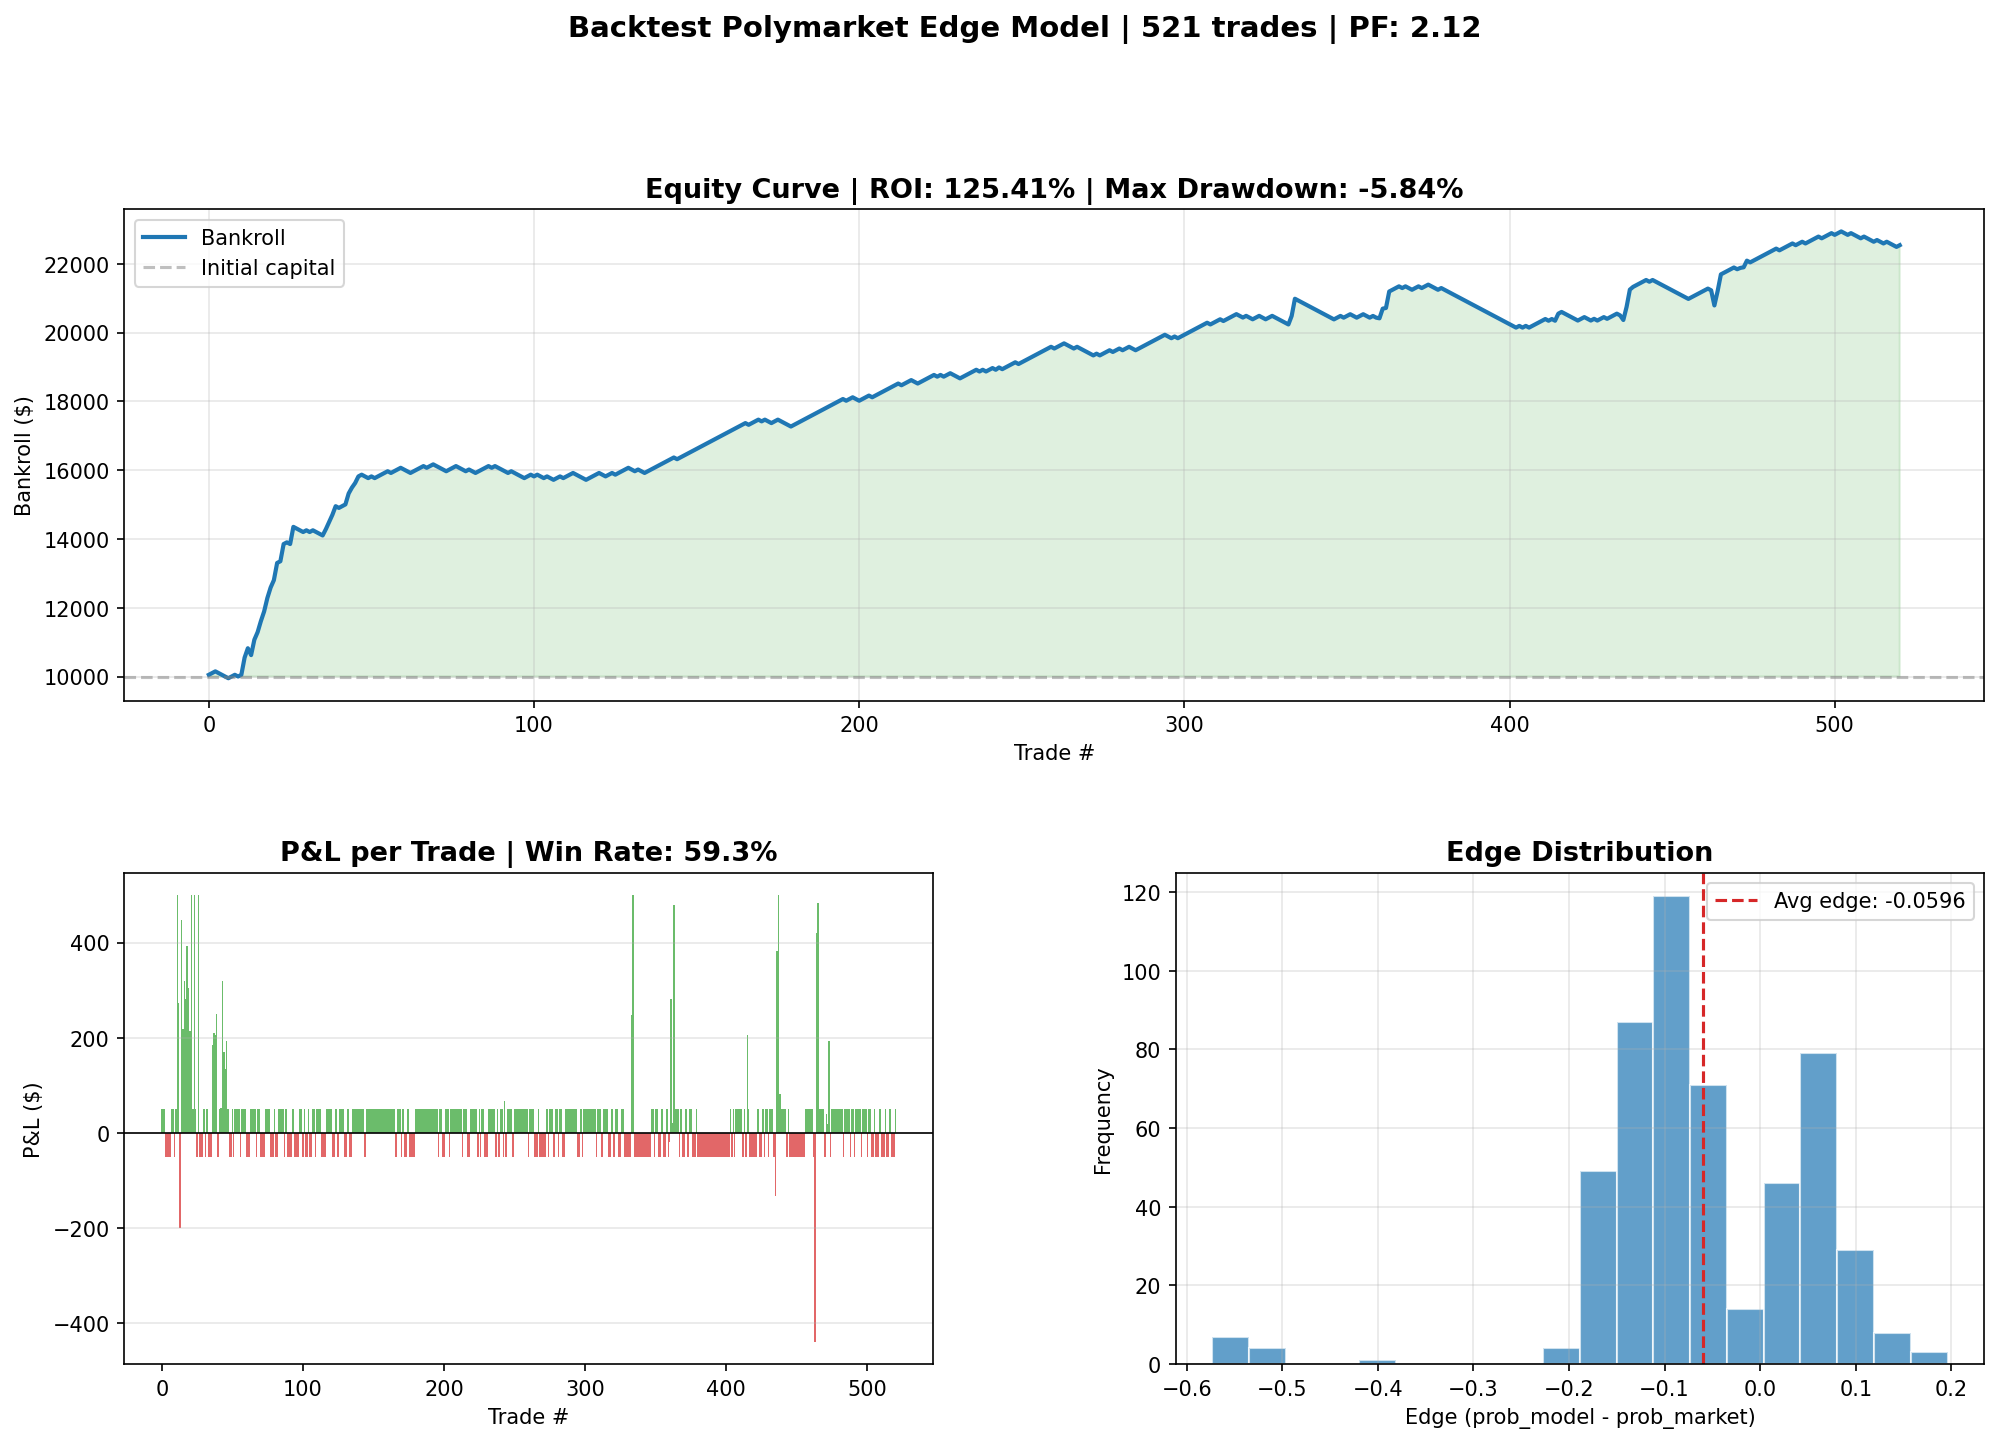
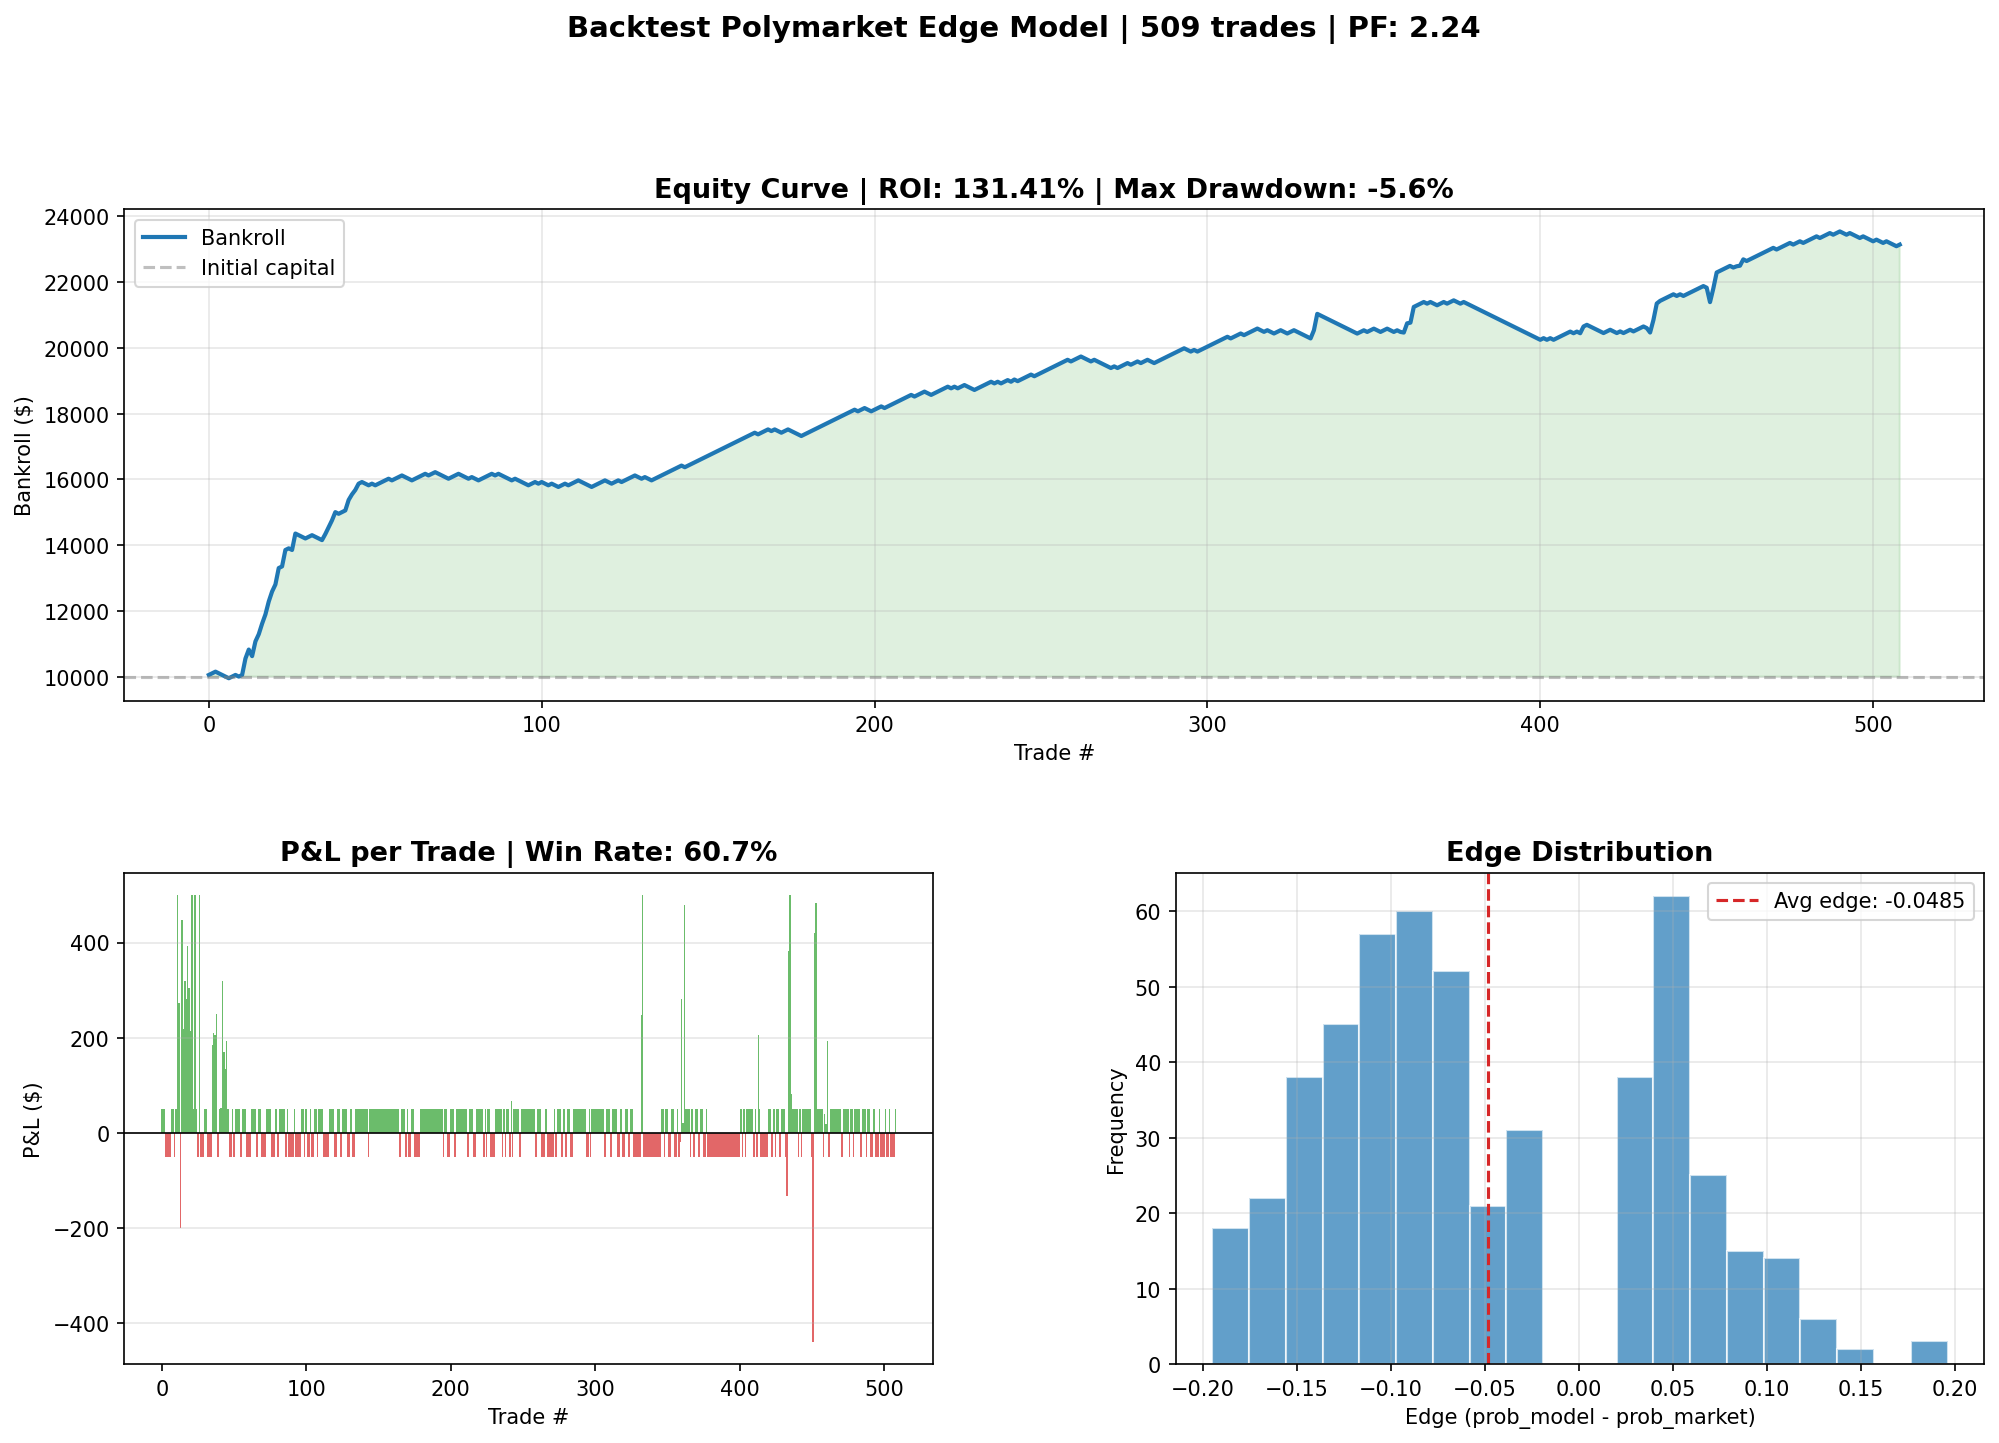
backtest: re-run with fixed kelly and live-engine guards (509 trades, +131.4% ROI)
- simulate_trades applies the same anti-artifact guards as signal_engine
- fetch_resolved_markets retries transient network errors (a connection
  reset used to silently truncate the training dataset)
- print_metrics uses ASCII separators (box-drawing chars crash cp1252 consoles)
- README backtest table refreshed: 509 trades, 60.7% win rate, +131.4% ROI

diff --git a/backtester.py b/backtester.py
@@ -57,6 +57,7 @@ def simulate_trades(
         df_test: pd.DataFrame,
         feature_cols: list[str],
         min_edge: float = 0.02, # Minimum edge to trigger a trade
+        max_edge: float = 0.30, # Edges above this are model errors, not mispricings
         max_kelly: float = 0.10, # Cap to avoid oversized positions
         max_position: float = 500.0,
         bankroll: float = 10_000.0, # Starting capital in $
@@ -103,6 +104,15 @@ def simulate_trades(
             continue
 
         direction = "BUY YES" if edge > 0 else "BUY NO"
+
+        # Same anti-artifact guards as signal_engine.generate_signals, so the
+        # backtest simulates exactly what the live engine would trade
+        if direction == "BUY YES" and prob_market < 0.15:
+            continue
+        if direction == "BUY NO" and prob_market > 0.85:
+            continue
+        if abs(edge) > max_edge:
+            continue
 
         # Position sizing
         
@@ -266,11 +276,11 @@ def print_metrics(metrics: dict) -> None:
     print(f"Total trades: {metrics["total_trades"]}")
     print(f"Wins: {metrics["wins"]} ({metrics["win_rate"]}%)")
     print(f"Losses: {metrics["losses"]}")
-    print(f"{chr(9472)*46}")
+    print("-" * 46) # Plain ASCII: box-drawing chars crash on Windows cp1252 consoles
     print(f"Total P&L: ${metrics["total_pnl"]:+.2f}")
     print(f"ROI: {metrics["roi_pct"]:+.2f}%")
     print(f"Final bankroll: ${metrics["final_bankroll"]:.2f}")
-    print(f"{chr(9472)*46}")
+    print("-" * 46) # Plain ASCII: box-drawing chars crash on Windows cp1252 consoles
     print(f"Max Drawdown: {metrics["max_drawdown_pct"]:.2f}%")
     print(f"Profit Factor: {metrics["profit_factor"]}")
     print(f"Avg position: ${metrics["avg_position"]:.2f}")
@@ -283,6 +293,7 @@ if __name__ == "__main__":
 
     INITIAL_BANKROLL = 10_000.0
     MIN_EDGE = 0.02 # Minimum edge to trade (2%)
+    MAX_EDGE = 0.30 # Skip edges above this (model error, not mispricing)
     USE_KELLY = True # True = Half-Kelly, False = fixed 2% fraction
     MAX_KELLY = 0.10 # Max 10% of bankroll per trade
     MAX_POSITION = 500.0 # Max $500 per trade (realistic Polymarket liquidity)
@@ -334,6 +345,7 @@ if __name__ == "__main__":
         df_test=df_test,
         feature_cols=feature_cols,
         min_edge=MIN_EDGE,
+        max_edge=MAX_EDGE,
         max_kelly=MAX_KELLY,
         max_position=MAX_POSITION,
         bankroll=INITIAL_BANKROLL

diff --git a/calibration.py b/calibration.py
@@ -38,12 +38,20 @@ def fetch_resolved_markets(max_markets: int = 3000) -> pd.DataFrame:
             "end_date_min": "2024-01-01", # Older markets lack reliable price data
         }
 
-        try:
-            resp = requests.get(f"{GAMMA_URL}/markets", params=params, timeout=10)
-            resp.raise_for_status()
-            batch_data = resp.json()
-        except requests.RequestException as e:
-            print(f"\nAPI error: {e}")
+        # Retry transient network errors instead of truncating the dataset:
+        # a single connection reset used to silently cut training data from
+        # 3000 markets down to whatever had been downloaded so far
+        batch_data = None
+        for attempt in range(3):
+            try:
+                resp = requests.get(f"{GAMMA_URL}/markets", params=params, timeout=10)
+                resp.raise_for_status()
+                batch_data = resp.json()
+                break
+            except requests.RequestException as e:
+                print(f"\nAPI error (attempt {attempt + 1}/3): {e}")
+                time.sleep(2 * (attempt + 1))
+        if batch_data is None:
             break
         
         if not batch_data:

diff --git a/README.md b/README.md
@@ -12,7 +12,7 @@ This project builds a systematic pipeline to find mispriced markets using two co
 - **External probability comparison**: Searched Metaculus and Manifold Markets for questions matching each Polymarket market, then calculated the edge between platforms using the Kelly Criterion for position sizing.
 - **Calibration model**: Downloaded 3,000 resolved markets (with known YES/NO outcomes) and trained a Random Forest to detect whether Polymarket systematically mis-prices certain types of markets.
 - **Brier Score analysis**: Evaluated the model using proper probabilistic scoring and generated a Reliability Diagram showing where Polymarket's calibration breaks down.
-- **Backtesting**: Simulated historical P&L over 521 trades using a temporal train/test split, Half-Kelly position sizing, and realistic liquidity constraints.
+- **Backtesting**: Simulated historical P&L over 509 trades using a temporal train/test split, Half-Kelly position sizing, and realistic liquidity constraints.
 
 ## PROJECT STRUCTURE
 
@@ -46,19 +46,23 @@ The backtester uses a **temporal split** (not random) to avoid look-ahead bias: 
 | Metric            | Value                          |
 | ----------------- | ------------------------------ |
 | Test period       | May 2024 - Jan 2025 (8 months) |
-| Total trades      | 521                            |
-| Win rate          | 59.3%                          |
-| ROI               | +125.4%                        |
-| Max drawdown      | -5.84%                         |
-| Profit factor     | 2.12                           |
+| Total trades      | 509                            |
+| Win rate          | 60.7%                          |
+| ROI               | +131.4%                        |
+| Max drawdown      | -5.60%                         |
+| Profit factor     | 2.24                           |
 | Avg position size | $67                            |
 | Brier improvement | +4.0% over raw market          |
+
+_Last re-run: 2026-06-10, after the Kelly side-selection fix and with the live signal guards applied (see below)._
 
 Position sizing uses **Half-Kelly** capped at 10% of bankroll and 10% of each market's reported liquidity. The model shows a strong BUY NO bias which is consistent with the longshot bias where Polymarket overprices unlikely YES outcomes.
 
 ![Backtest Results](data/backtest_results.png)
 
 ### Backtest assumption and limitations
+
+- **Signal guards**: The simulation applies the same anti-artifact filters as the live signal engine: no BUY YES on markets priced below 0.15, no BUY NO above 0.85, and no signals with |edge| > 0.30 (treated as model error rather than mispricing). This keeps the backtest simulating exactly what the bot would trade.
 
 - **Spread**: Resolved markets report unreliable spread (no active trading). I assume a 5¢ spread cap, which is conservative for active markets.
 
